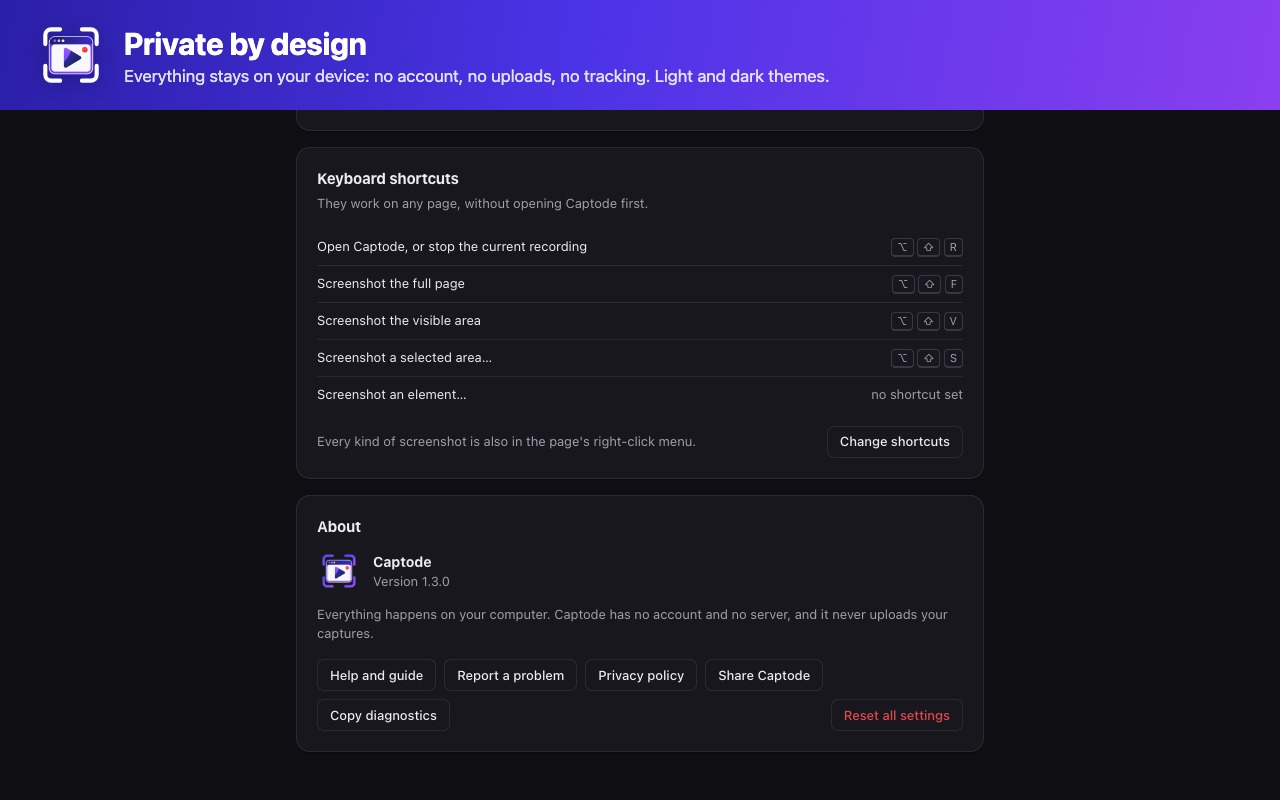
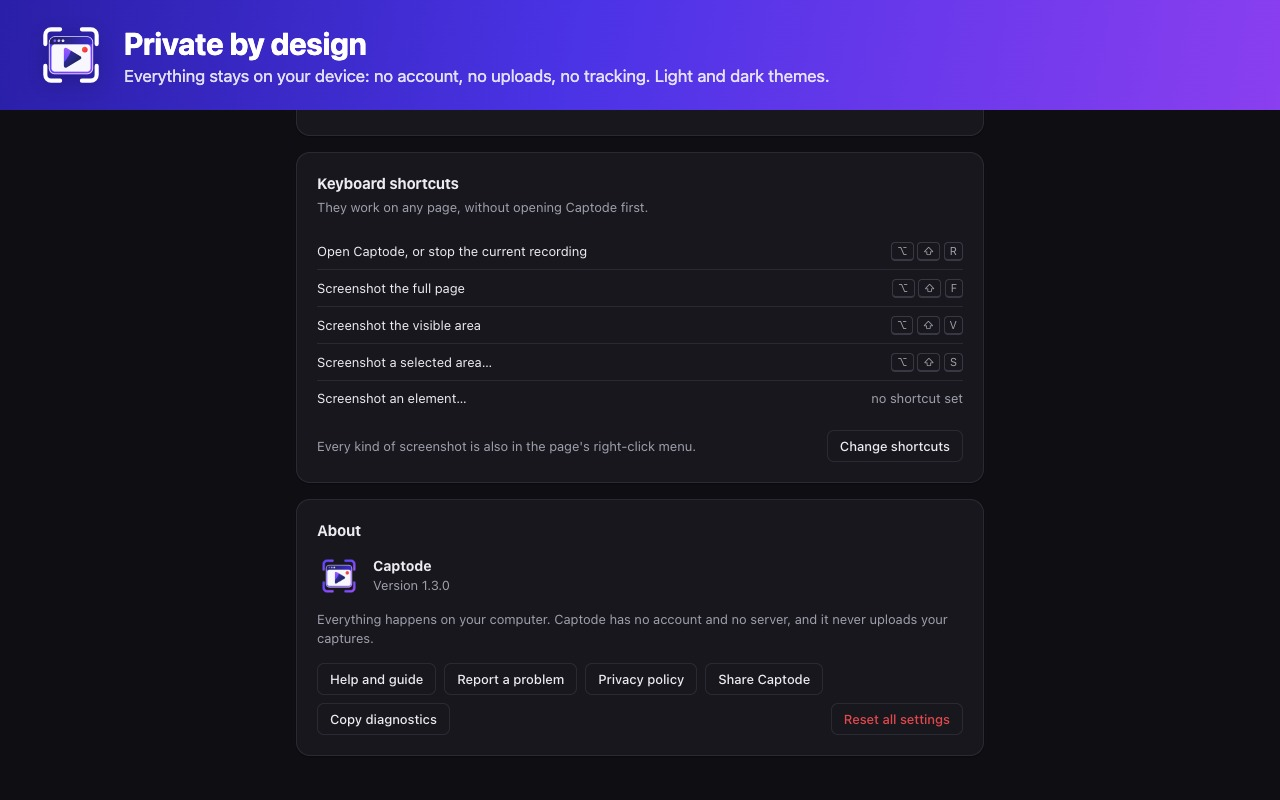
Blur private details is a setting, off at first; tests find Captode's own worker and close late editors

diff --git a/src/editor/editor.js b/src/editor/editor.js
@@ -1364,7 +1364,7 @@ function rememberWork(change) {
 // A first hint, until something has been added to an image.
 let firstHint = false;
 function showFirstHint() {
-  if (!firstHint || objects.length || !$('#private-bar').classList.contains('hidden')) return;
+  if (!firstHint || objects.length) return;
   $('#canvas-hint').classList.remove('hidden');
 }
 function hideFirstHint(done) {
@@ -1374,29 +1374,19 @@ function hideFirstHint(done) {
 }
 $('#canvas-hint-close').addEventListener('click', () => hideFirstHint(true));
 
-// Details on the page that may be private, found as it was captured (see findPrivate):
-// one click blurs them all, each as its own blur that can be moved or removed.
-function offerBlur(boxes) {
-  const inside = boxes
-    .map((b) => ({ x: clamp(b.x, 0, base.width), y: clamp(b.y, 0, base.height), x2: clamp(b.x + b.w, 0, base.width), y2: clamp(b.y + b.h, 0, base.height) }))
-    .filter((b) => b.x2 - b.x >= 2 && b.y2 - b.y >= 2);
-  if (!inside.length) return;
-  $('#private-text').textContent = inside.length === 1 ? t('editor_private_one') : t('editor_private_many', inside.length);
-  $('#private-bar').classList.remove('hidden');
-  hideFirstHint(false);
-  $('#private-blur').onclick = () => {
-    const added = inside.map((b) => ({ type: 'redact', ...propsFor('redact'), x1: b.x, y1: b.y, x2: b.x2, y2: b.y2 }));
-    objects.push(...added);
-    select(added);
-    setTool('select');
-    syncStyleUi();
-    renderFg();
-    commit();
-    $('#private-bar').classList.add('hidden');
-    toast(added.length === 1 ? t('editor_private_blurred_one') : t('editor_private_blurred_many', added.length), { ms: 6000, action: { label: t('editor_undo'), run: undo } });
-  };
+// Details on the page that may be private, found as it was captured when Settings asks for
+// it (see findPrivate): each is blurred as its own blur, which can be moved or removed.
+function blurPrivate(boxes) {
+  const added = boxes
+    .map((b) => ({ x1: clamp(b.x, 0, base.width), y1: clamp(b.y, 0, base.height), x2: clamp(b.x + b.w, 0, base.width), y2: clamp(b.y + b.h, 0, base.height) }))
+    .filter((b) => b.x2 - b.x1 >= 2 && b.y2 - b.y1 >= 2)
+    .map((b) => ({ type: 'redact', ...propsFor('redact'), ...b }));
+  if (!added.length) return;
+  objects.push(...added);
+  renderFg();
+  commit();
+  toast(added.length === 1 ? t('editor_private_blurred_one') : t('editor_private_blurred_many', added.length), { ms: 8000, action: { label: t('editor_undo'), run: undo } });
 }
-$('#private-close').addEventListener('click', () => { $('#private-bar').classList.add('hidden'); showFirstHint(); });
 
 // ---------- tools ----------
 
@@ -2483,7 +2473,7 @@ document.addEventListener('keydown', (e) => {
     captureId = id;
     if (rec.edits) await restoreEdits(rec.edits);
     if (rec.meta?.truncated) toast(t('truncated'), { ms: 6000 });
-    if (rec.meta?.private?.length && !rec.edits && !new URLSearchParams(location.search).has('reopen')) offerBlur(rec.meta.private);
+    if (rec.meta?.private?.length && !rec.edits && settings.autoBlur && !new URLSearchParams(location.search).has('reopen')) blurPrivate(rec.meta.private);
     // Only a capture that has just been taken, not one reopened from Recent captures.
     if (settings.autoCopy && !new URLSearchParams(location.search).has('reopen')) {
       window.history.replaceState(null, '', `?id=${id}&reopen=1`); // not again on reload (`history` here is the undo stack)

diff --git a/src/editor/editor.html b/src/editor/editor.html
@@ -78,13 +78,6 @@
       <button class="btn ghost icon" id="canvas-hint-close" data-tip="Dismiss" data-i18n-tip="popup_dismiss" aria-label="Dismiss" data-i18n-aria-label="popup_dismiss"><svg class="i" viewBox="0 0 24 24"><path d="M6 6l12 12M18 6 6 18"/></svg></button>
     </div>
 
-    <div class="canvas-hint private-bar hidden" id="private-bar" role="status">
-      <svg class="i" viewBox="0 0 24 24"><path d="M12 3 4 6v6c0 4.5 3.4 8.3 8 9 4.6-.7 8-4.5 8-9V6z"/><path d="m9 12 2 2 4-4"/></svg>
-      <span id="private-text"></span>
-      <button class="btn primary" id="private-blur" data-i18n="editor_private_blur">Blur</button>
-      <button class="btn ghost icon" id="private-close" data-tip="Dismiss" data-i18n-tip="popup_dismiss" aria-label="Dismiss" data-i18n-aria-label="popup_dismiss"><svg class="i" viewBox="0 0 24 24"><path d="M6 6l12 12M18 6 6 18"/></svg></button>
-    </div>
-
     <div class="zoombar">
       <button class="btn ghost icon" id="zoom-out" data-tip="Zoom out  −" data-i18n-tip="editor_zoom_out"><svg class="i" viewBox="0 0 24 24"><path d="M5 12h14"/></svg></button>
       <button class="btn ghost" id="zoom-label" data-tip="Fit or actual size  0" data-i18n-tip="editor_fit_or_actual_size_0">100%</button>

diff --git a/src/popup/popup.html b/src/popup/popup.html
@@ -39,7 +39,7 @@
   </div>
   <div id="whats-new" class="banner new hidden" role="status">
     <svg class="i" viewBox="0 0 24 24"><path d="M12 3l2.4 5.3 5.6.6-4.2 3.8 1.2 5.6L12 15.5 7 18.3l1.2-5.6L4 8.9l5.6-.6z"/></svg>
-    <div><b data-i18n="popup_new_in_captode_1_4">New in Captode 1.4</b><span data-i18n="popup_whats_new_1_4">A camera bubble and microphone for recordings, a shortcut for each kind of screenshot, and one click to blur email addresses and numbers.</span></div>
+    <div><b data-i18n="popup_new_in_captode_1_4">New in Captode 1.4</b><span data-i18n="popup_whats_new_1_4">A camera bubble and microphone for recordings, a shortcut for each kind of screenshot, and an option in Settings to blur email addresses and numbers.</span></div>
     <button class="btn ghost icon close" id="whats-new-close" data-tip="Dismiss" aria-label="Dismiss" data-i18n-aria-label="popup_dismiss" data-i18n-tip="popup_dismiss"><svg class="i" viewBox="0 0 24 24"><path d="M6 6l12 12M18 6 6 18"/></svg></button>
   </div>
   <div id="blocked" class="banner warn hidden">

diff --git a/src/settings/settings.js b/src/settings/settings.js
@@ -30,6 +30,7 @@ function render() {
   $('#imageFormat').value = settings.imageFormat;
   $('#videoFormat').value = settings.videoFormat;
   $('#autoCopy').checked = settings.autoCopy;
+  $('#autoBlur').checked = settings.autoBlur;
 }
 
 for (const group of ['theme', 'background']) {
@@ -46,6 +47,7 @@ $('#bg-hex').addEventListener('input', (e) => {
 $('#imageFormat').addEventListener('change', (e) => update({ imageFormat: e.target.value }));
 $('#videoFormat').addEventListener('change', (e) => update({ videoFormat: e.target.value }));
 $('#autoCopy').addEventListener('change', (e) => update({ autoCopy: e.target.checked }));
+$('#autoBlur').addEventListener('change', (e) => update({ autoBlur: e.target.checked }));
 $('#device').checked = device;
 $('#device').addEventListener('change', async (e) => { await chrome.storage.local.set({ device: e.target.checked }); saved(); });
 $('#shortcuts').addEventListener('click', () => chrome.tabs.create({ url: 'chrome://extensions/shortcuts' }));

diff --git a/src/settings/settings.html b/src/settings/settings.html
@@ -76,6 +76,7 @@
     </div>
     <label class="toggle"><span data-i18n="popup_device_frame">Device frame<small data-i18n="settings_show_captures_in_a_phone">Show captures in a phone or tablet frame by default</small></span><input type="checkbox" id="device"></label>
     <label class="toggle"><span data-i18n="settings_copy_screenshots_to_the_clipboard">Copy screenshots to the clipboard<small data-i18n="settings_each_new_screenshot_is_copied">Each new screenshot is copied as soon as it opens, ready to paste</small></span><input type="checkbox" id="autoCopy"></label>
+    <label class="toggle"><span data-i18n="settings_blur_private">Blur private details<small data-i18n="settings_blur_private_hint">Email addresses and phone and card numbers are blurred in new screenshots; each blur can be removed</small></span><input type="checkbox" id="autoBlur"></label>
   </section>
 
   <section class="card">

diff --git a/src/background.js b/src/background.js
@@ -63,10 +63,11 @@ async function waitBeforeCapture(tab, seconds) {
 
 /**
  * Details on the page that may be private (see findPrivate), as boxes in image pixels
- * stored with the capture: the editor offers to blur them. A page that can't be read
+ * stored with the capture: the editor blurs them, if chosen in Settings. A page that can't be read
  * just has none.
  */
 async function notePrivate(tab, meta, region, space, scale) {
+  if (!(await chrome.storage.local.get('settings')).settings?.autoBlur) return; // off unless chosen in Settings
   const boxes = await run(tab.id, findPrivate, region, space).catch(() => null);
   if (!boxes?.length) return;
   const pad = 2 * scale;

diff --git a/src/editor/editor.css b/src/editor/editor.css
@@ -209,7 +209,3 @@ body { display: flex; flex-direction: column; overflow: hidden; }
 }
 .canvas-hint kbd { margin: 0 1px; }
 .canvas-hint .btn { width: 28px; height: 28px; flex: none; }
-/* Offers to blur email addresses and numbers found on the page. */
-.private-bar { bottom: auto; top: 14px; color: var(--text); }
-.private-bar > .i { color: var(--accent); flex: none; }
-.canvas-hint.private-bar .btn.primary { width: auto; padding: 0 12px; font-weight: 600; }

diff --git a/src/lib/settings.js b/src/lib/settings.js
@@ -7,6 +7,7 @@ export const DEFAULT_SETTINGS = {
   imageFormat: 'last',       // 'last' (the editor remembers it) or a format
   videoFormat: 'last',
   autoCopy: false,           // copy new screenshots to the clipboard when the editor opens them
+  autoBlur: false,           // blur email addresses and phone and card numbers in new screenshots
 };
 
 export async function getSettings() {

diff --git a/store/listing.md b/store/listing.md
@@ -53,8 +53,8 @@ or press a keyboard shortcut on any page.
 
 Mark up
 Add arrows, shapes, text, callouts, highlights and numbered steps, spotlight or magnify
-what matters, and blur or black out anything private before you share. When a screenshot
-shows email addresses or phone or card numbers, Captode offers to blur them in one click. Select several
+what matters, and blur or black out anything private before you share. Captode can also blur
+email addresses and phone or card numbers in every new screenshot, if you turn that on. Select several
 things to align, arrange or copy them, and pick up where you left off: your edits are
 kept with each capture. Crop, resize, or add padding, a background and a shadow. Every tool has a
 keyboard shortcut, and changes can be undone.
@@ -157,7 +157,7 @@ so they are not "collected" in the Chrome Web Store's sense (data transmitted of
 user's device). The same goes for the camera and microphone, which the user turns on for a
 recording (the browser asks them first) and which only go into that recording on their
 device, and for the email addresses and numbers Captode looks for on a captured page to
-offer to blur them: only their positions are kept, with the capture, on the device.
+blur them when the user has turned that on in Settings: only their positions are kept, with the capture, on the device.
 
 Tick all three certifications:
 - I do not sell or transfer user data to third parties, outside of the approved use cases
@@ -188,7 +188,8 @@ No account or setup is needed.
 4. Record > Full screen shows Chrome's own screen picker and records the chosen screen
    or window.
 5. Right-click any page and choose Captode > Screenshot the visible area, or press
-   Alt+Shift+V. On a page showing an email address, the editor offers to blur it.
+   Alt+Shift+V. With Settings > Blur private details on, an email address on the page
+   comes out blurred.
 Captode cannot capture chrome:// pages or the Chrome Web Store (Chrome blocks this for all
 extensions); the popup says so on those pages.
 ```

diff --git a/README.md b/README.md
@@ -39,11 +39,11 @@ The capture opens in the editor, where you can:
   bold, italic, text colour and background colour.
 - **Number the steps:** each click adds a numbered marker (1, 2, 3…) in the colour and
   size you choose; start from any number, or renumber one.
-- **Blur, pixelate or black out** sensitive details. When a screenshot shows email
-  addresses, phone numbers or card numbers (in text or form fields), the editor offers to
-  blur them all in one click; each blur can then be moved or removed, and Undo takes them
-  all back. Dates, times, prices, years and order numbers are left alone. They are found on
-  the page as it is captured; nothing is sent anywhere.
+- **Blur, pixelate or black out** sensitive details. With **Blur private details** on in
+  Settings (it is off at first), email addresses, phone numbers and card numbers in a new
+  screenshot (in text or form fields) are blurred as it opens; each blur can be moved or
+  removed, and Undo takes them all back. Dates, times, prices, years and order numbers are
+  left alone. They are found on the page as it is captured; nothing is sent anywhere.
 - Select, move, resize (handles on every annotation), restyle and delete anything you
   added. **Select several** with Shift-click or by dragging a box, then move, restyle,
   duplicate, copy and paste (between editor tabs too), bring to front or send to back,
@@ -178,6 +178,8 @@ Open **Settings** from the gear in the popup (or right-click the icon → Option
   they get white when Transparent is chosen.
 - **Default formats** for screenshots and recordings (or the last one used), and whether
   device frames are on.
+- **Blur private details:** blur email addresses and phone and card numbers in new
+  screenshots (off at first).
 
 Settings also lists every keyboard shortcut (with a button to change them), has links to
 help, problem reports and the privacy policy, a **Share Captode** button (the system's

diff --git a/docs/TESTING.md b/docs/TESTING.md
@@ -20,8 +20,9 @@ the extension into Chrome for Testing and checks:
   Windows high-contrast mode
 - element and delayed screenshots, full pages of apps that scroll a panel, and the
   right-click menu's items
-- the offer to blur email addresses and phone and card numbers (and not dates, sums or
-  order numbers), in visible and full-page screenshots
+- Blur private details: off, nothing is looked for; on, email addresses and phone and
+  card numbers are blurred (and not dates, sums or order numbers), in visible and
+  full-page screenshots
 - recordings with a camera bubble and microphone, with Chrome's stand-in camera: the
   bubble is drawn, keeps moving on a still page, and both are let go afterwards
 - Share Captode and Copy diagnostics (no page addresses)
@@ -88,8 +89,8 @@ or install the zip from `npm run package`.
    **Record → Full screen**. Block the camera for Captode in Chrome's site settings and
    record again: the popup reports that the camera can't be used.
 18. **Shortcuts and menus:** press Alt+Shift+F, Alt+Shift+V and Alt+Shift+S on a web page;
-   right-click the page and the toolbar icon and try each Captode item. On a page showing
-   an email address, **Blur** in the editor covers it.
+   right-click the page and the toolbar icon and try each Captode item. With **Blur private
+   details** on in Settings, an email address on the page comes out blurred.
 
 ### Windows
 

diff --git a/PRIVACY.md b/PRIVACY.md
@@ -24,8 +24,9 @@ them. It does not collect, transmit, sell or share any personal or sensitive dat
   into that recording on your device and nowhere else. Your browser asks you before
   Captode can use them, and you can withdraw that at any time in the browser's site
   settings.
-- **Private details** (email addresses, phone and card numbers) are looked for on the page
-  you capture, at the moment you capture it, only to offer to blur them. Their positions
+- **Private details** (email addresses, phone and card numbers) are looked for only if you
+  turn on Blur private details in Settings, on the page you capture, at the moment you
+  capture it, to blur them. Their positions
   are kept with the capture; the text itself isn't kept or sent.
 - **Copy diagnostics** in Settings puts versions, settings and the last error on your
   clipboard for you to paste into a report yourself. Captode doesn't send it.
